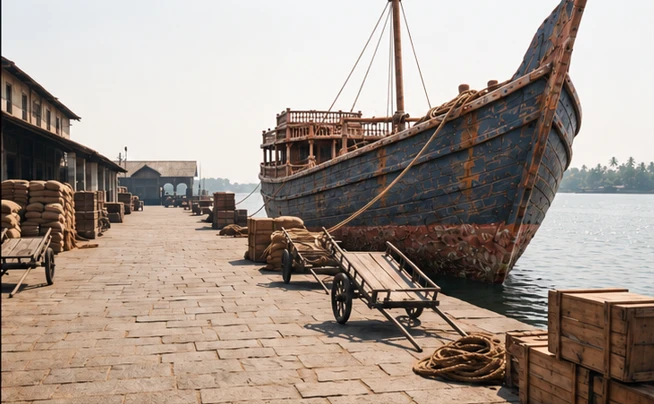
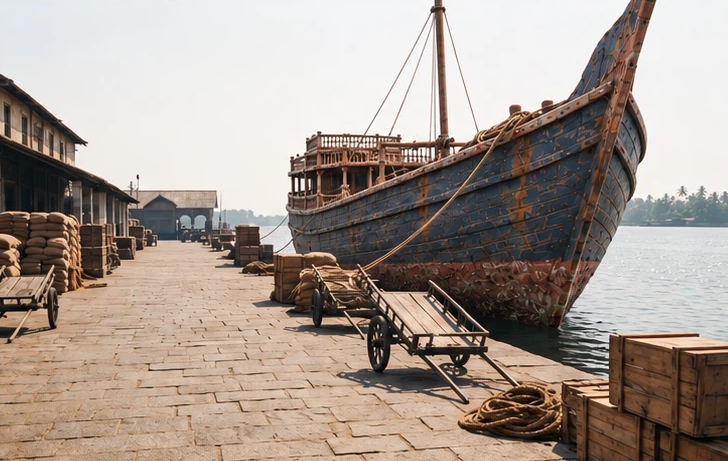
Ranjith: asset: @uru and @harbourc2plate recut from the larger copy of sheet v2 (same IDs)

Changed region(s): [[0.0, 0.0, 1.0, 1.0], [0.9174, 0.9208, 1.0, 0.9505], [0.9174, 0.8614, 0.948, 0.8911]]

diff --git a/props/uru/card.md b/props/uru/card.md
@@ -9,7 +9,7 @@ used_in: [s13-sh01]
 ---
 
 # The hero uru — Antony's cargo vessel (1998)
-Platform ID: `@uru` · Image: `prop.png` (cropped from panel 13B "Approach" of Ranjith's harbour sheet v2; 418 × 290 px, replace with a sharper crop under the same ID when the full-size sheet is available)
+Platform ID: `@uru` · Image: `prop.png` (cropped from panel 13B "Approach" of Ranjith's harbour sheet v2; 467 × 329 px, the largest copy available)
 Tracker note: the location tracker calls the hero uru `@Uru2`. This is the vessel Ranjith chose on 2026-11-06 (the one in panels 13B Approach and 14 Boarding); if a different `@Uru2` image exists on the platform, tell Ananthu before using it.
 
 ## What it looks like
